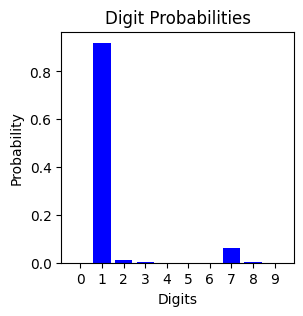
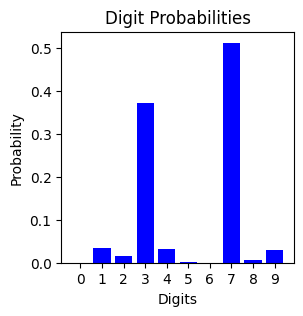
增加了pred_list存储图中全部的预测数组, 返回首部(可能是最新的, 由于图中数字的识别顺序不固定, 不保证一定能更新柱状图)

diff --git a/utils.py b/utils.py
@@ -5,6 +5,7 @@ import math
 import cv2
 import pygame
 import io
+import os
 
 from MODEL.model import CNNModel
 IMG_SIZE = 28
@@ -42,6 +43,9 @@ def imageNormalization(x_train, x_test):
     return x_train, x_test
 
 # ===================== image processing ===================== #
+# load训练好的model进行数字预测
+model = CNNModel(input_shape=(28, 28, 1))
+
 def put_label(t_img,label,x,y):
     font = cv2.FONT_HERSHEY_SIMPLEX
     l_x = int(x) - 10
@@ -51,9 +55,7 @@ def put_label(t_img,label,x,y):
     return t_img
 
 
-import numpy as np
-import cv2
-import math
+
 
 
 def image_refiner(gray):
@@ -93,6 +95,7 @@ def get_output_image(path):
     ret, thresh = cv2.threshold(img, 127, 255, 0)  # 二值化 像素值大于 127 的会被设为 255（白色），小于 127 的会被设为 0（黑色）。
     contours, hierarchy = cv2.findContours(thresh, cv2.RETR_CCOMP, cv2.CHAIN_APPROX_SIMPLE)  # 轮廓检测 轮廓 沿着物体的边缘
 
+    pred_list = []
     for j, cnt in enumerate(contours):
         # 计算轮廓的周长，epsilon 是一个小的阈值，用于调整近似程度
         epsilon = 0.01 * cv2.arcLength(cnt, True)
@@ -116,17 +119,19 @@ def get_output_image(path):
             roi = image_refiner(roi)  # 调整大小并填充
             th, fnl = cv2.threshold(roi, 127, 255, cv2.THRESH_BINARY)  # 再次对裁剪的区域进行二值化，确保其为黑白图像
 
-            # load训练好的model进行数字预测
-            model = CNNModel(input_shape=(28, 28, 1))
             pred = model.predict_digit(roi)
+            pred_list.append(pred)  # **把预测结果追加到列表**
             pred_argmax = np.argmax(pred)
+            print(pred_argmax)
             print(pred)
 
             # 在图像上标注预测结果
             (x, y), radius = cv2.minEnclosingCircle(cnt)
             img_org = put_label(img_org, pred_argmax, x, y)
-
-    return img_org, pred
+    pred_array = np.array(pred_list)  # **将列表转换为 NumPy 数组**
+    print("pred_array:")
+    print(pred_array)
+    return img_org, pred_array
 # ===================== image processing ===================== #
 
 # ===================== windows service ===================== #
@@ -196,32 +201,26 @@ def show_combined_output(img, pred):
     # 生成 Matplotlib 柱状图
     fig, ax = plt.subplots(figsize=(3, 3))
     x = np.arange(10)  # 0-9 数字
-    ax.bar(x, pred.flatten(), color='blue')  # 画柱状图
+    ax.bar(x, pred[0,0], color='blue')  # 画柱状图
     ax.set_xticks(x)
     ax.set_xlabel("Digits")
     ax.set_ylabel("Probability")
     ax.set_title("Digit Probabilities")
 
-    # 保存 Matplotlib 图像到内存
-    buf = io.BytesIO()
-    plt.savefig(buf, format="PNG", bbox_inches="tight")
-    buf.seek(0)
+    # **保存 Matplotlib 图像到文件**
+    os.makedirs("ASSETS", exist_ok=True)  # 确保目录存在
+    plt.savefig("ASSETS/Fig.png", format="PNG", bbox_inches="tight")
     plt.close(fig)  # 关闭 Matplotlib 图表，防止内存泄漏
 
-    # 读取 Matplotlib 图像，并转换为 Pygame 格式
+    # **尝试从文件加载柱状图**
     try:
-        chart_surf = pygame.image.load(buf)
-    except pygame.error:
-        print("Error: Failed to load chart image")
-        return  # 直接返回，防止报错
+        chart_surf = pygame.image.load("ASSETS/Fig.png")
+        # 调整柱状图大小
+        chart_surf = pygame.transform.scale(chart_surf, (width, height))
+        screen.blit(chart_surf, (width * 2 + 2, 0))
+    except pygame.error as e:
+        print(f"Error: Failed to load chart image from ASSETS/Fig.png: {e}")
 
-    buf.close()
-
-    # 调整柱状图大小
-    chart_surf = pygame.transform.scale(chart_surf, (width, height))
-
-    # 显示柱状图在 (width * 2 + 2, 0)
-    screen.blit(chart_surf, (width * 2 + 2, 0))
     # 显示处理后的图像在 (width+2, 0)
     screen.blit(img_surf, (width+2, 0))
 
